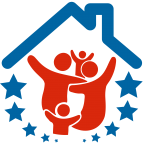
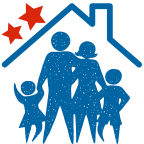
updated

diff --git a/server/controllers/needController.js b/server/controllers/needController.js
@@ -1,5 +1,5 @@
 const mongoose = require('mongoose');
-const db = require('../database/models/need');
+const db = require('../database/models');
 
 // Define your database controllers here!
 // Ex: Create, Update, Delete, etc.
@@ -7,11 +7,23 @@ const db = require('../database/models/need');
 module.exports = {
 
     new: function (req, res) {
-        db.Need.create(req.body)
+        const orgId = req.body.orgId;
+        console.log(orgId);
+        db.Need.create({
+            need: req.body.need,
+            comment: req.body.comment
+        })
             .then(function (need) {
+                console.log("Need", need._id);
+                console.log("orgId", orgId);
                 // View the added result in the console
-                console.log(need);
-                res.json(need);
+                db.Organization.findByIdAndUpdate(req.body.orgId, { $push: { needs: need._id } }, { new: true }, function (err, obj) {
+                    if (err) return handleError(err);
+                    console.log(need);
+                    res.json(need);
+                });
+
+
             })
             .catch(function (err) {
                 // If an error occurred, send it to the client
@@ -20,14 +32,14 @@ module.exports = {
     },
 
     getNeeds: function (req, res) {
-        db.Need.find({ orgId: req.params.orgId })
+        db.Organization.findById(req.params.orgId).populate('needs')
             .then(dbModel => res.json(dbModel))
             .catch(err => res.status(422).json(err));
     },
 
     removeNeed: function (req, res) {
         db.Need
-            .findById({ _id: req.params.needId })
+            .findByIdAndUpdate({ _id: req.params.needId })
             .then(dbNeed => dbNeed.remove())
             .then(dbNeed => res.json(dbNeed))
             .catch(err => res.status(422).json(err));

diff --git a/client/src/pages/Home/Home.js b/client/src/pages/Home/Home.js
@@ -1,5 +1,5 @@
 import React, { Component } from 'react';
-import { CardPanel, Button, Col, Collection, CollectionItem } from 'react-materialize';
+import { CardPanel, Button, Col, Card } from 'react-materialize';
 import './Home.css';
 import API from '../../util/API';
 import SweetAlert from 'sweetalert-react';
@@ -57,13 +57,14 @@ class Home extends Component {
                     </div>
                     <div className="container list-org">
                     {this.state.organizations.length ? (
-                                <Collection>
-                                    {this.state.organizations.map(organization => (
-                                        <CollectionItem
-                                            key={organization._id}
-                                            _id={organization._id} ><a href={"/needs/"+organization._id} target="blank">{organization.orgName}</a></CollectionItem>
-                                    ))}
-                                </Collection>
+                    
+                                    this.state.organizations.map(organization => (
+                                        <Card title={<a href={"/needs/"+organization._id}>{organization.orgName}</a>}
+                                reveal={<p>{organization.website}</p>}>
+                                </Card>
+                                        
+                                    ))
+                                
                             ) : (
                                     <h2 className="text-center">{this.state.message}</h2>
                                 )}

diff --git a/client/src/pages/OrganizationNeeds/OrganizationNeeds.js b/client/src/pages/OrganizationNeeds/OrganizationNeeds.js
@@ -10,8 +10,6 @@ class Needs extends Component {
     state = {
         needs:[],
         orgId: this.props.match.params.orgId,
-        need: "",
-        comment: "",
         message:""
     };
 
@@ -22,11 +20,10 @@ class Needs extends Component {
     loadNeeds =() =>{
         API.getNeeds(this.state.orgId)
         .then(res => {
-            console.log(res.data);
             if(!res.data.length){
                 this.setState({ message: "No needs for this organization." })
             }
-            this.setState({ needs: res.data.needs });
+            this.setState({ needs: res.data });
 
         })
         .catch(err => console.log(err));
@@ -45,35 +42,16 @@ class Needs extends Component {
         });
     };
 
-    validateForm = () =>{
-        const { need } = this.state;
-        return (need );
-    }
-
-    clear =() =>{
-        this.setState({
-            need: "",
-            comment: ""
-        })
-    }
-
     handleFormSubmit = event => {
         event.preventDefault();
-        const { need, comment } = this.state;
-
-        if (this.validateForm()) {
             API.newNeed({
-                orgId: this.state.orgId,
-                need: need,
-                comment: comment
+                orgId: this.state.orgId
             })
                 .then(res => {
-                    this.clear();
                     this.addConfirm();
-                    this.loadNeeds();
                 })
                 .catch(err => console.log(err));
-        }
+        
     };
 
     deleteNeed=(needId)=>{

diff --git a/server/controllers/searchController.js b/server/controllers/searchController.js
@@ -1,4 +1,4 @@
-const db = require('../database/models/organization');
+const db = require('../database/models');
 
 module.exports = {
 
@@ -7,7 +7,7 @@ module.exports = {
     if (search.length == 1 && search[0].match(/[0-9]/g)) {
       db.Organization.find({
         zip: search[0].trim()
-      })
+      }).populate('need')
         .then(dbModel => {
           res.json(dbModel);
         })
@@ -17,11 +17,26 @@ module.exports = {
       db.Organization.find({
         city: search[0].trim(),
         state: search[1].trim()
-      })
+      }).populate('need')
         .then(dbModel => {
           res.json(dbModel);
         })
         .catch(err => res.status(422).json(err));
     }
-  }
+  },
+
+  searchOrgNeeds:function (req, res) {
+    const search = req.body.filters.split(",");
+    console.log(search[0], search[1]);
+      db.Organization.find({
+        city: search[0].trim(),
+        state: search[1].trim()
+      }).populate('need')
+        .then(dbModel => {
+          console.log(dbModel);
+          res.json(dbModel);
+        })
+        .catch(err => res.status(422).json(err));
+    }
+  
 };

diff --git a/server/passport/index.js b/server/passport/index.js
@@ -1,12 +1,12 @@
 var passport = require("passport");
 var LocalStrategy = require("./localStrategy");
-var User = require("../database/models/user").User;
+var User = require("../database/models").User;
 
 // called on login, saves the id to session req.session.passport.user = {id:'..'}
 passport.serializeUser((user, done) => {
 	console.log('*** serializeUser called, user: ')
-	console.log(user) // the whole raw user object!
-	console.log('---------')
+	//console.log(user) // the whole raw user object!
+	//console.log('---------')
 	done(null, { _id: user._id })
 })
 
@@ -17,8 +17,8 @@ passport.deserializeUser((id, done) => {
 		{ _id: id },
 		(err, user) => {
 			console.log('*** Deserialize user, user:')
-			console.log(user)
-			console.log('--------------')
+			//console.log(user)
+			//console.log('--------------')
 			done(null, user)
 		}
 	)

diff --git a/server/controllers/organizationController.js b/server/controllers/organizationController.js
@@ -1,5 +1,5 @@
 const mongoose = require('mongoose');
-const db = require('../database/models/organization');
+const db = require('../database/models');
 
 // Define your database controllers here!
 // Ex: Create, Update, Delete, etc.
@@ -27,11 +27,13 @@ module.exports = {
       .catch(err => res.status(422).json(err));
   },
 
-  get:function(req,res){
-    db.Organization.findOne({ _id: req.params.id })
-    .then(dbModel => res.json(dbModel))
-    .catch(err => res.status(422).json(err));
-  }
+  get: function (req, res) {
+    db.Organization.findById(req.params.orgId).populate('needs')
+        .then(dbModel => {
+          console.log(dbModel);
+          res.json(dbModel)})
+        .catch(err => res.status(422).json(err));
+}
 
 
 };

diff --git a/server/index.js b/server/index.js
@@ -1,3 +1,4 @@
+require('dotenv').config();
 // Initialize Express
 const express = require('express');
 const app = express();
@@ -21,7 +22,7 @@ const bodyParser = require('body-parser'); // Helps us extract features from req
 
 class App {
     constructor() {
-        this.port = process.env.PORT || 3090;
+        this.port = process.env.PORT || 3080;
         this.server = http.createServer(app);
         //this.initDb();
         this.initMiddleware();

diff --git a/client/src/pages/Header/Header.js b/client/src/pages/Header/Header.js
@@ -4,7 +4,7 @@ import './Header.css';
 import API from '../../util/API';
 
 const Img = <div >
-<img src='../images/shinystars-logo-5.png' alt="logo" width="60" height="60" className="logo-img" /><span className="app-name">SHINY Stars</span></div>;
+<img src='../images/shinystars-logo-6.png' alt="logo" width="60" height="60" className="logo-img" /><span className="app-name">SHINY Stars</span></div>;
 
 class Header extends Component {
 

diff --git a/server/database/models/user.js b/server/database/models/user.js
@@ -12,7 +12,10 @@ const userSchema = new Schema({
   phonenumber2: { type: String, required: false },
 
   email: { type: String, unique: true, match: [/.+@.+\..+/, "Please enter a valid e-mail address"] },
-  organization: { type: Number, default: 0, required: true }
+  organization: { type: Number, default: 0, required: true },
+  shinylist: [
+    { type: Schema.Types.ObjectId, ref: 'Need' }
+  ]
 })
 
 userSchema.methods = {

diff --git a/server/models/seed.js b/server/models/seed.js
@@ -1,11 +1,9 @@
 const mongoose = require('mongoose');
-// const Product = require('../models/product');
-
 
 const User = require("./user/user")
 
 //Non-Profit Organization
-const Organization = require('../models/organization');
+const Organization = require('../models');
 
 // Below is an example of a method that seeds your database
 // Customize it to fit your needs, and execute it by calling it on a custom route

diff --git a/server/database/models/shinylist.js b/server/database/models/shinylist.js
@@ -2,15 +2,13 @@ const mongoose = require("mongoose");
 const Schema = mongoose.Schema;
 
 const shinyListSchema = new Schema({
-    userId: {
+    user: {
         type: String,
         required: true
     },
 
-    needId: {
-        type: String,
-        required: true
-    }
+    needs:[{type: Schema.Types.ObjectId, ref: 'Need'}]
+
 });
 
 const ShinyList = mongoose.model("ShinyList", shinyListSchema);

diff --git a/server/database/models/organization.js b/server/database/models/organization.js
@@ -55,9 +55,11 @@ const organizationSchema = new Schema({
     userId: {
         type: String,
         required: true
-    }
+    },
+    needs:[
+        {type: Schema.Types.ObjectId, ref: 'Need'}
+      ]
 });
 
 const Organization = mongoose.model("Organization", organizationSchema);
-
-module.exports = Organization;
+module.exports =  Organization;
